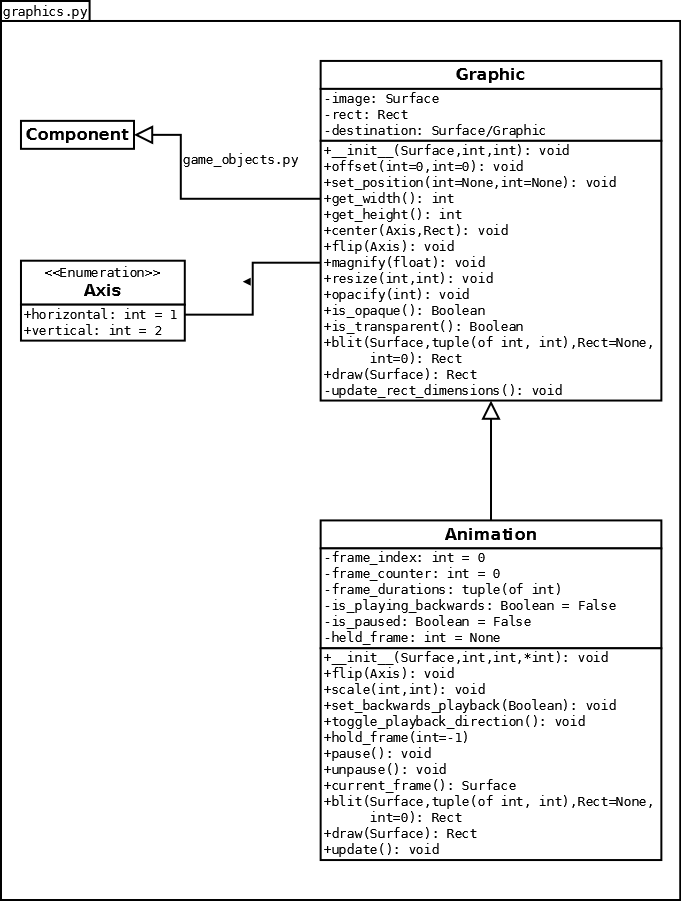
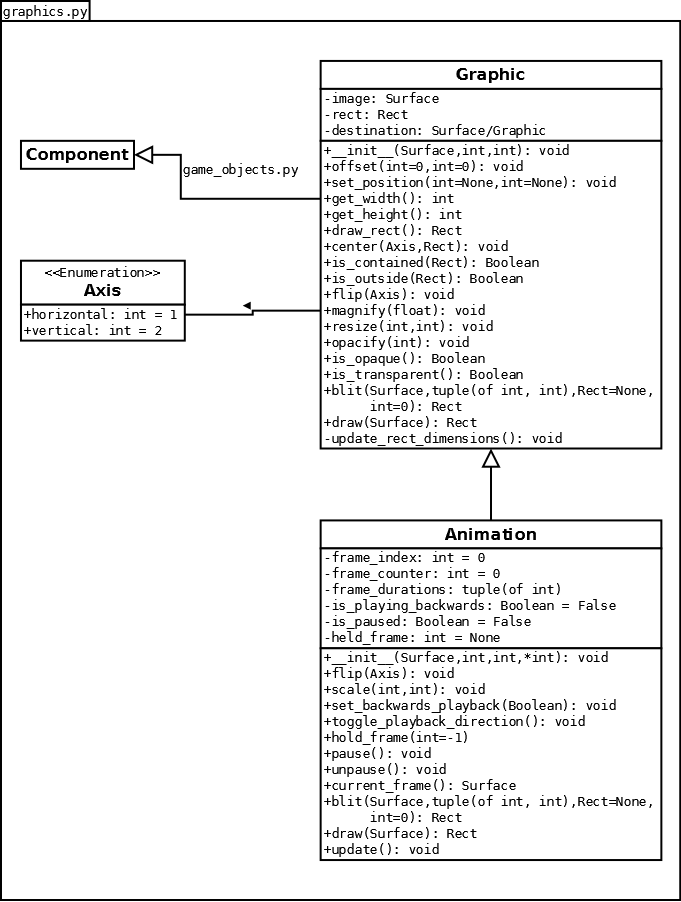
Graphic: Add back is_contained() and is_outside()

diff --git a/graphics.py b/graphics.py
@@ -122,6 +122,40 @@ class Graphic(Component):
             centered_y += container_rect.y
             self.entity.set_position(new_y=centered_y - self._rect.y)
 
+    def is_contained(self, container_rect):
+        """Return a Boolean indicating whether this Graphic is
+        completely contained within an area of the screen.
+        (i.e. No pixels exceed the area's boundaries.)
+
+        Args:
+            container_rect (Rect): Contains the position and dimensions
+                of the area this Graphic will be compared to.
+        """
+        if container_rect.contains(self.draw_rect()):
+            return True
+        else:
+            return False
+
+    def is_outside(self, container_rect):
+        """Return a Boolean indicating whether this Graphic is
+        completely outside of an area of the screen.
+        (i.e. All pixels exceed the area's boundaries.)
+
+        Args:
+            container_rect (Rect): Contains the position and dimensions
+                of the area this Graphic will be compared to.
+        """
+        if not container_rect.colliderect(self.draw_rect()):
+            return True
+        else:
+            return False
+
+    def draw_rect(self):
+        """Return a Rect containing the actual position the Graphic
+        will be drawn to, with the Entity's position taken into account.
+        """
+        return self._rect.move(self.entity.x, self.entity.y)
+
     def flip(self, axis):
         """Flip the image horizontally and/or vertically.
 
